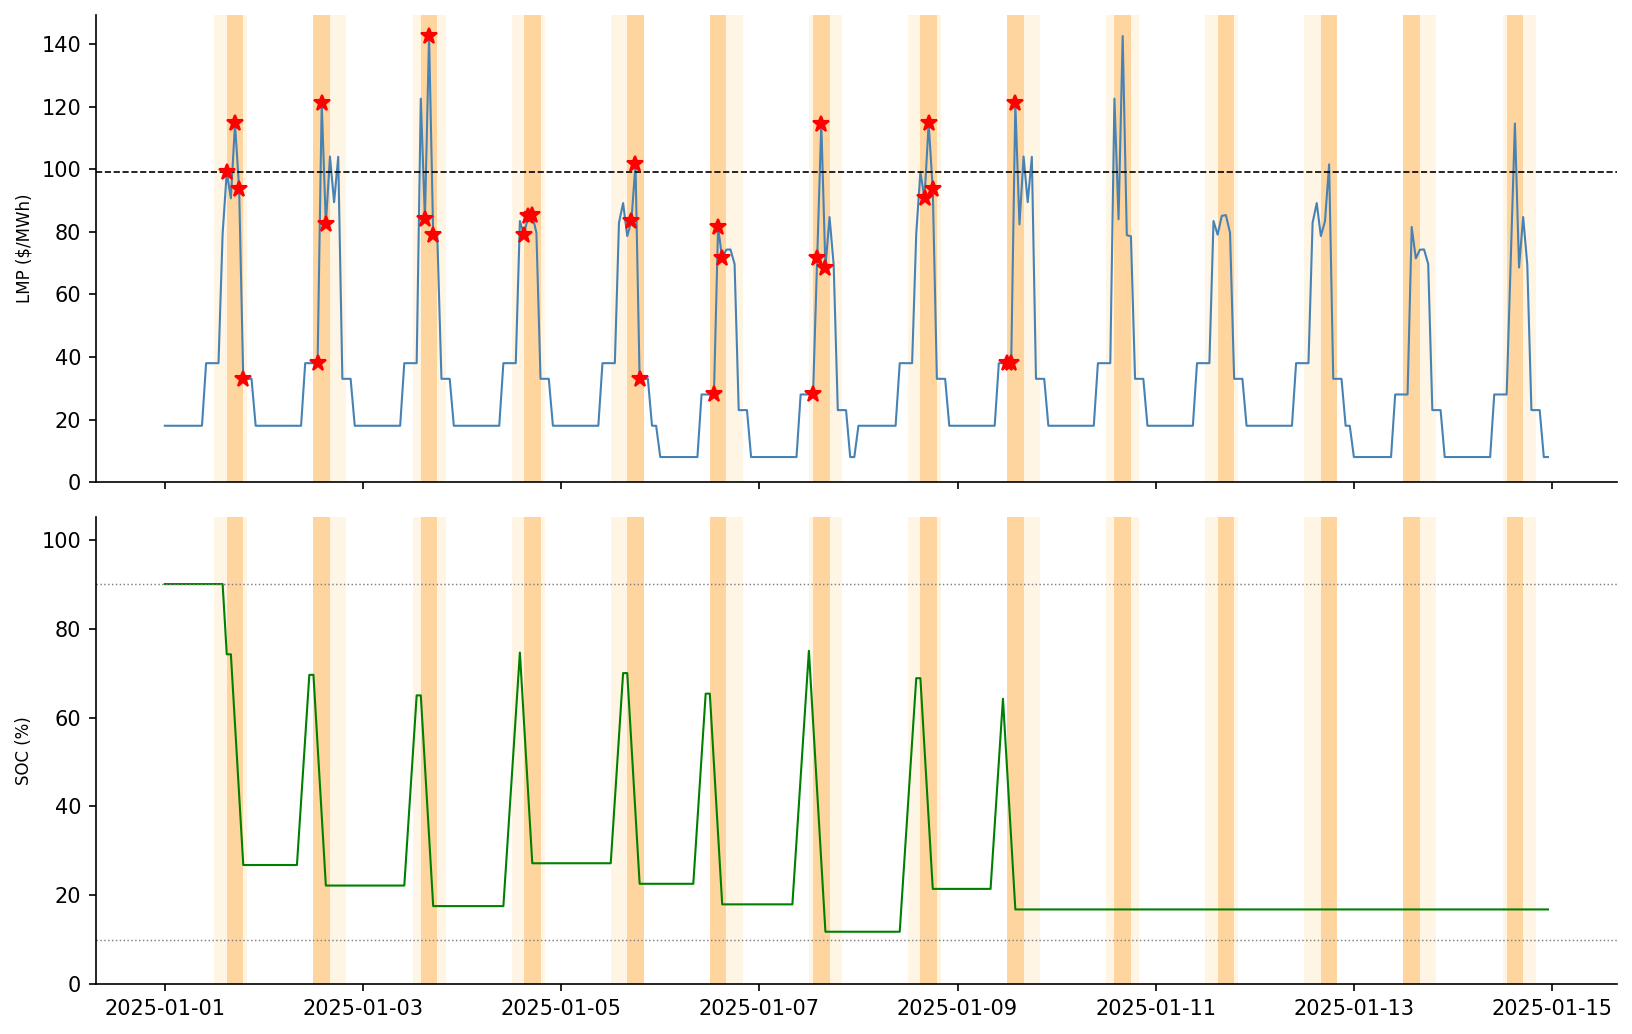
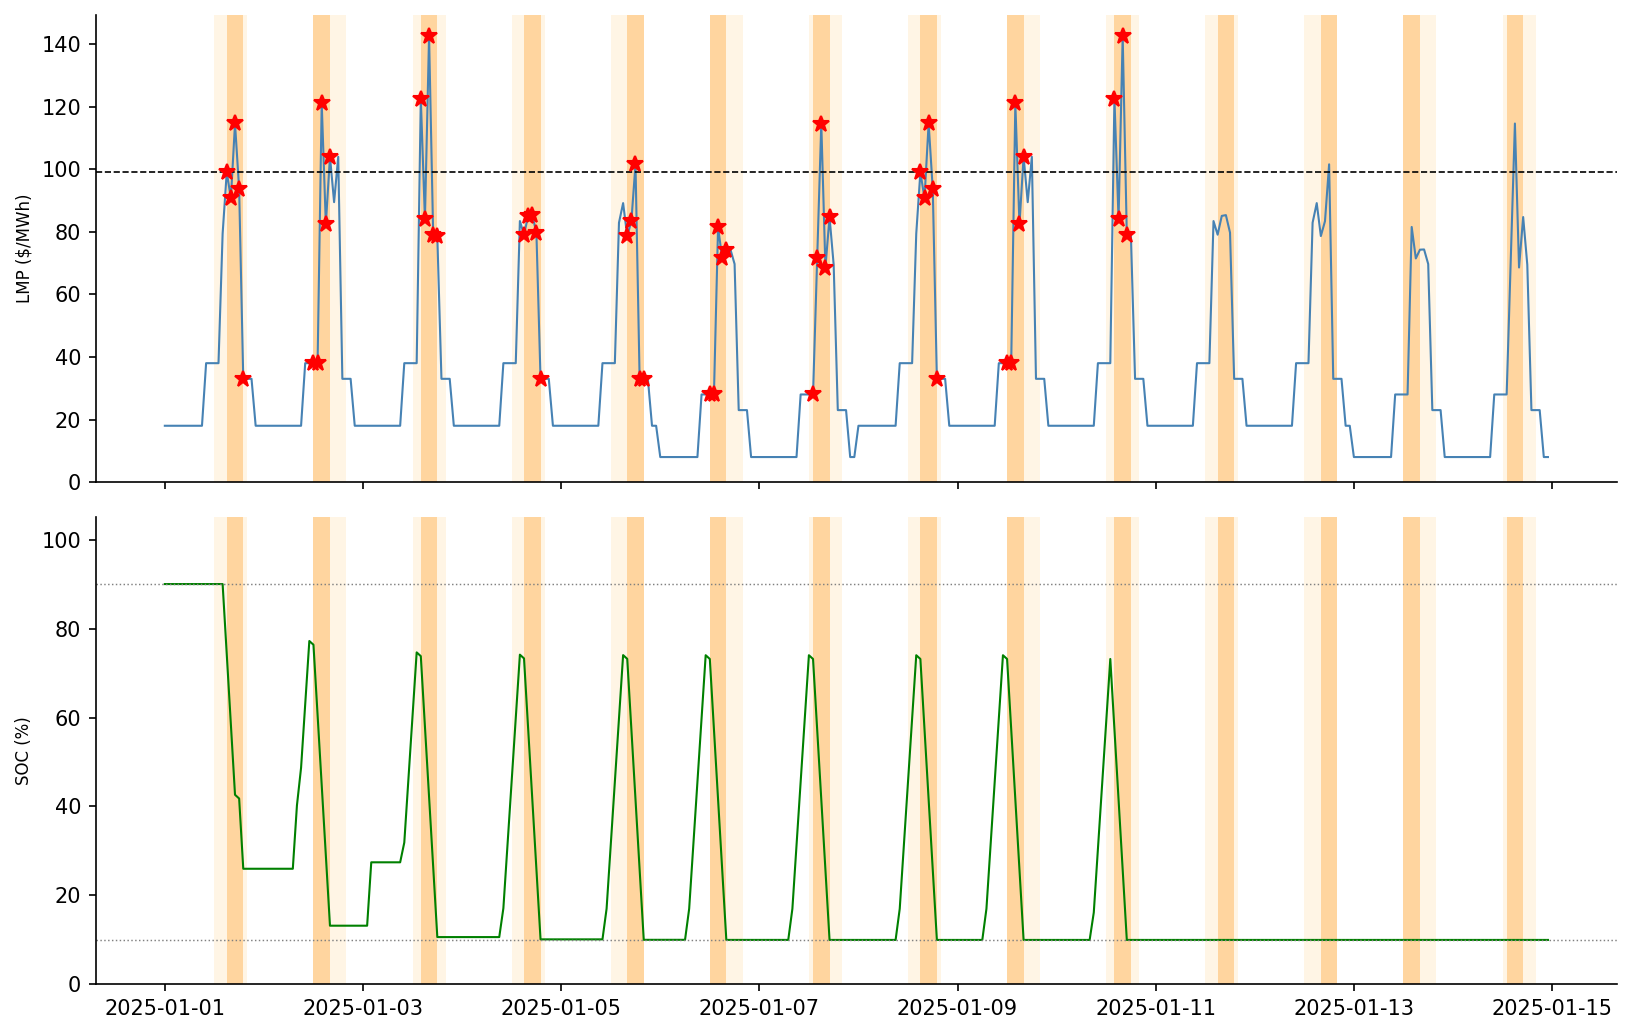
Solve for optimal power rather than assuming P_max

diff --git a/h2integrate/control/control_strategies/storage/plm_optimized_storage_controller.py b/h2integrate/control/control_strategies/storage/plm_optimized_storage_controller.py
@@ -107,11 +107,10 @@ class PeakLoadManagementOptimizedStorageController(PyomoStorageControllerBaseCla
     """Demand-response storage controller using a rolling-horizon MILP.
 
     Each call to the dispatch solver iterates over the full simulation in
-    windows of length ``n_control_window_hours``. For each window it receives
-    the monthly LMP forecast, solves the MILP to maximize incentive
-    revenue, then passes the resulting dispatch commands to the
-    performance model. The terminal SOC of each window is carried forward
-    as the initial SOC of the next window.
+    windows of length ``n_control_window_hours``. For each window it builds
+    and solves a MILP that maximises incentive revenue, then passes the
+    resulting dispatch commands to the performance model. The terminal SOC
+    of each window is carried forward as the initial SOC of the next window.
     """
 
     dr_model: Any
@@ -300,7 +299,7 @@ class PeakLoadManagementOptimizedStorageController(PyomoStorageControllerBaseCla
 
                 # Run the performance model for this window.
                 storage_out_window, soc_window = performance_model(
-                    self._get_storage_dispatch_commands(P_max),
+                    self._get_storage_dispatch_commands(),
                     **performance_model_kwargs,
                     sim_start_index=window_start,
                 )
@@ -361,7 +360,7 @@ class PeakLoadManagementOptimizedStorageController(PyomoStorageControllerBaseCla
         times = pd.DatetimeIndex(self.time_index).time
         if end < start:
             raise ValueError("peak_window end time must be after start time.")
-        return np.array([start <= t <= end for t in times])
+        return np.array([start <= t < end for t in times])
 
     def _compute_month_ids(self) -> np.ndarray:
         """Return the calendar month index (1-12) for each timestep.
@@ -478,10 +477,25 @@ class PeakLoadManagementOptimizedStorageController(PyomoStorageControllerBaseCla
     ) -> pyomo.ConcreteModel:
         """Build the DR MILP for a single rolling window.
 
+        Decision variables
+        ------------------
+        discharge[t] : binary
+            Event indicator — 1 if a discharge event is active at timestep t.
+            Used for event counting and window feasibility constraints only.
+        charge[t] : binary
+            Event indicator — 1 if a charge event is active at timestep t.
+        p_discharge[t] : continuous in [0, P_max]
+            Actual discharge power (kW). Linked to the binary via the
+            McCormick upper-bound constraint ``p_discharge[t] <= P_max * discharge[t]``.
+        p_charge[t] : continuous in [0, P_max]
+            Actual charge power (kW). Linked via ``p_charge[t] <= P_max * charge[t]``.
+        soc[t] : continuous in [soc_min, soc_max]
+            State of charge (fraction).
+
         Args:
-            window_start (int): Timestep index of the first hour
+            window_start (int): Timestep index of the first timestep
                 in this window.
-            window_len (int): Number of timesteps in this window
+            window_len (int): Number of timesteps in this window.
             init_soc (float): State-of-charge fraction at the start of
                 this window.
             remaining_budget (dict): Mapping of ``month_id (int)`` to
@@ -525,12 +539,25 @@ class PeakLoadManagementOptimizedStorageController(PyomoStorageControllerBaseCla
         m.T = pyomo.Set(initialize=range(window_len), doc="Timesteps in window")
         m.M = pyomo.Set(initialize=months_in_window, doc="Months in window")
 
-        # Things to solve for
+        # Binary event indicators — used for event counting and window constraints.
         m.discharge = pyomo.Var(
-            m.T, domain=pyomo.Binary, doc="Discharge binary: 1 = discharging at timestep t"
+            m.T, domain=pyomo.Binary, doc="1 if a discharge event is active at timestep t"
         )
         m.charge = pyomo.Var(
-            m.T, domain=pyomo.Binary, doc="Charge binary: 1 = charging at timestep t"
+            m.T, domain=pyomo.Binary, doc="1 if a charge event is active at timestep t"
+        )
+        # Actual kW dispatched each timestep.
+        m.p_discharge = pyomo.Var(
+            m.T,
+            domain=pyomo.NonNegativeReals,
+            bounds=(0, P_max),
+            doc="Discharge power (kW) at timestep t",
+        )
+        m.p_charge = pyomo.Var(
+            m.T,
+            domain=pyomo.NonNegativeReals,
+            bounds=(0, P_max),
+            doc="Charge power (kW) at timestep t",
         )
         m.soc = pyomo.Var(
             m.T,
@@ -539,11 +566,10 @@ class PeakLoadManagementOptimizedStorageController(PyomoStorageControllerBaseCla
             doc="State of charge SoC_t",
         )
 
-        # Incentive revenue is earned for every kWh discharged during the dispatch window,
-        # so we need the energy at every timestep to be in Kwh
+        # Incentive revenue is earned for every kWh discharged.
         dt_hours = self.dt_seconds / 3600.0
         m.objective = pyomo.Objective(
-            expr=-incentive * P_max * dt_hours * sum(m.discharge[t] for t in m.T),
+            expr=-incentive * dt_hours * sum(m.p_discharge[t] for t in m.T),
             sense=pyomo.minimize,
         )
 
@@ -562,7 +588,7 @@ class PeakLoadManagementOptimizedStorageController(PyomoStorageControllerBaseCla
             rule=lambda mdl, t: mdl.discharge[t] <= int(eligible_t_w[t]),
         )
 
-        # There is limit on the number of events, not discharge timesteps.
+        # There is a limit on the number of events, not discharge timesteps.
         # However, we know the number of timesteps in the event from steps_per_event,
         # so we can indirectly limit the number of discharge timesteps in each month
         # by multiplying the event cap by steps_per_event.
@@ -577,6 +603,16 @@ class PeakLoadManagementOptimizedStorageController(PyomoStorageControllerBaseCla
 
         m.max_events = pyomo.Constraint(m.M, rule=max_events_rule)
 
+        # Power is zero when the binary is 0, and at most P_max when 1.
+        m.discharge_power_link = pyomo.Constraint(
+            m.T,
+            rule=lambda mdl, t: mdl.p_discharge[t] <= P_max * mdl.discharge[t],
+        )
+        m.charge_power_link = pyomo.Constraint(
+            m.T,
+            rule=lambda mdl, t: mdl.p_charge[t] <= P_max * mdl.charge[t],
+        )
+
         m.soc_init = pyomo.Constraint(expr=m.soc[0] == init_soc)
 
         # Dynamics of the battery SOC evolution.
@@ -585,8 +621,8 @@ class PeakLoadManagementOptimizedStorageController(PyomoStorageControllerBaseCla
                 return pyomo.Constraint.Skip
             return mdl.soc[t] == (
                 mdl.soc[t - 1]
-                + eta_c * mdl.charge[t] * P_max * dt_hours / E_max
-                - mdl.discharge[t] * P_max * dt_hours / (eta_d * E_max)
+                + eta_c * mdl.p_charge[t] * dt_hours / E_max
+                - mdl.p_discharge[t] * dt_hours / (eta_d * E_max)
             )
 
         m.soc_evolution = pyomo.Constraint(m.T, rule=soc_evolution_rule)
@@ -597,7 +633,7 @@ class PeakLoadManagementOptimizedStorageController(PyomoStorageControllerBaseCla
             rule=lambda mdl, t: mdl.discharge[t] + mdl.charge[t] <= 1,
         )
 
-        # Can't charge in the dispatch window
+        # Can't charge in the dispatch window.
         m.no_charge_in_window = pyomo.Constraint(
             m.T,
             rule=lambda mdl, t: (
@@ -670,17 +706,14 @@ class PeakLoadManagementOptimizedStorageController(PyomoStorageControllerBaseCla
             results = solver.solve(pyomo_model, options=solver_options.constructed, tee=False)
         return results
 
-    def _get_storage_dispatch_commands(self, P_max: float) -> list:
+    def _get_storage_dispatch_commands(self) -> list:
         """Net dispatch commands for the solved window.
 
-        Args:
-            P_max (float): Maximum charge/discharge rate (kW).
-
         Returns:
-            list[float]: ``(u_t - v_t) * P_max`` for each timestep in
-            the solved window. Positive = discharge, negative = charge.
+            list[float]: ``p_discharge_t - p_charge_t`` (kW) for each timestep
+            in the solved window. Positive = discharge, negative = charge.
         """
         return [
-            (pyomo.value(self.dr_model.discharge[t]) - pyomo.value(self.dr_model.charge[t])) * P_max
+            pyomo.value(self.dr_model.p_discharge[t]) - pyomo.value(self.dr_model.p_charge[t])  # type: ignore[index]
             for t in self.dr_model.T
         ]

diff --git a/h2integrate/control/control_strategies/storage/test/test_plm_optimized_storage_controller.py b/h2integrate/control/control_strategies/storage/test/test_plm_optimized_storage_controller.py
@@ -101,14 +101,13 @@ def test_compute_peak_window_mask():
     controller.config = SimpleNamespace(peak_window={"start": "00:00:00", "end": "02:00:00"})
     controller.time_index = pd.date_range("2024-01-01", periods=24, freq="h")
     mask = controller._compute_peak_window_mask()
-    expected = np.array([i <= 2 for i in range(24)])
+    expected = np.array([i < 2 for i in range(24)])
     assert isinstance(mask, np.ndarray)
     assert np.array_equal(mask, expected)
 
 
 @pytest.mark.unit
 def test_compute_month_ids():
-    # Jan 2024: 744h, Feb 2024 (leap year): 696h, Mar 2024: 744h
     controller = _make_controller()
     controller.time_index = pd.date_range("2024-01-01", periods=744 + 696 + 744, freq="h")
     month_ids = controller._compute_month_ids()
@@ -242,13 +241,18 @@ def test_optimizer_dispatch_respects_soc_constraints(base_config):
 
     PeakLoadManagementOptimizedStorageController.glpk_solve_call(model)
 
-    soc = base_config.init_soc_fraction * base_config.max_capacity
+    E_max = base_config.max_capacity * (base_config.max_soc_fraction - base_config.min_soc_fraction)
+    eta_c = base_config.charge_efficiency
+    eta_d = base_config.discharge_efficiency
+    dt_hours = 3600 / 3600.0
+    soc = base_config.init_soc_fraction
     for t in range(24):
-        charge = pyomo.value(model.charge[t])  # type: ignore[index]
-        discharge = pyomo.value(model.discharge[t])  # type: ignore[index]
-        soc += charge - discharge
-        assert soc >= base_config.min_soc_fraction * base_config.max_capacity
-        assert soc <= base_config.max_soc_fraction * base_config.max_capacity
+        p_charge = pyomo.value(model.p_charge[t])  # type: ignore[index]
+        p_discharge = pyomo.value(model.p_discharge[t])  # type: ignore[index]
+        if t > 0:
+            soc += eta_c * p_charge * dt_hours / E_max - p_discharge * dt_hours / (eta_d * E_max)
+        assert soc >= base_config.min_soc_fraction - 1e-6
+        assert soc <= base_config.max_soc_fraction + 1e-6
 
 
 @pytest.mark.unit
@@ -315,3 +319,29 @@ def test_optimizer_dispatch_respects_charge_discharge_exclusivity(base_config):
         charge = pyomo.value(model.charge[t])  # type: ignore[index]
         discharge = pyomo.value(model.discharge[t])  # type: ignore[index]
         assert not (charge > 0.5 and discharge > 0.5)
+
+
[email redacted]
+def test_mccormick_power_zero_when_binary_zero(base_config):
+    """McCormick constraint: p_discharge[t] must be 0 whenever discharge[t] == 0."""
+    controller = _make_controller_with_config(base_config)
+    model = controller._build_dr_model(
+        window_start=0,
+        window_len=24,
+        init_soc=base_config.init_soc_fraction,
+        remaining_budget={1: base_config.n_max_events},
+        P_max=base_config.max_charge_rate,
+        storage_capacity=base_config.max_capacity,
+    )
+
+    PeakLoadManagementOptimizedStorageController.glpk_solve_call(model)
+
+    for t in range(24):
+        u = pyomo.value(model.discharge[t])  # type: ignore[index]
+        p_d = pyomo.value(model.p_discharge[t])  # type: ignore[index]
+        v = pyomo.value(model.charge[t])  # type: ignore[index]
+        p_c = pyomo.value(model.p_charge[t])  # type: ignore[index]
+        if u < 0.5:
+            assert p_d < 1e-6, f"p_discharge[{t}]={p_d} but discharge[{t}]={u}"
+        if v < 0.5:
+            assert p_c < 1e-6, f"p_charge[{t}]={p_c} but charge[{t}]={v}"

diff --git a/examples/test/test_all_examples.py b/examples/test/test_all_examples.py
@@ -2921,13 +2921,13 @@ def test_plm_optimized_dispatch_example(subtests, temp_copy_of_example):
     with subtests.test("Check number of discharge events"):
         # With the given demand profile and battery size, there should be 2 discharge events
         num_discharge_events = np.sum(battery_power > 1e-3)  # Count timesteps with discharge
-        assert num_discharge_events == 368
+        assert num_discharge_events == 588
 
     with subtests.test("Check total energy discharged"):
         total_energy_discharged = battery_power.sum() * (1 / 60)  # kWh, 1 min timestep
-        assert pytest.approx(total_energy_discharged, rel=1e-2) == 1840.0
+        assert pytest.approx(total_energy_discharged, rel=1e-2) == 2428.0
 
     with subtests.test("Check total energy charged"):
         battery_charge = model.prob.get_val("battery.storage_electricity_charge", units="kW")
         total_energy_charged = battery_charge.sum() * (1 / 60)  # kWh, 1 min timestep
-        assert pytest.approx(total_energy_charged, rel=1e-3) == -2015.0
+        assert pytest.approx(total_energy_charged, rel=1e-3) == -2663.0

diff --git a/examples/34_plm_optimized_dispatch/run_plm_optimized_dispatch.py b/examples/34_plm_optimized_dispatch/run_plm_optimized_dispatch.py
@@ -121,4 +121,6 @@ ax.set_ylim([0, 105])
 
 
 plt.tight_layout()
-plt.savefig("plm_optimized_dispatch.png", dpi=150, bbox_inches="tight")
+plt.savefig(
+    "examples/34_plm_optimized_dispatch/plm_optimized_dispatch.png", dpi=150, bbox_inches="tight"
+)

diff --git a/docs/control/pyomo_controllers.md b/docs/control/pyomo_controllers.md
@@ -73,13 +73,13 @@ The controller works at any simulation timestep resolution (`dt`). All time-base
 - $\mathcal{W}$ := `peak_window`: set of timesteps eligible for dispatch (e.g., 12:00--20:00 each day)
 - $\lambda_*$ := signal threshold = `signal_threshold_percentile`-th percentile of $\lambda_t$ over $\mathcal{W}$
 - $\mathcal{E}$ := eligible peak timesteps: $\{t \in \mathcal{W} : \lambda_t \geq \lambda_*\}$, respecting `min_peak_separation`
-- $\mathcal{D}$ := dispatch window: union of $\pm\,\tfrac{\text{event\_duration}}{2}$ neighbourhoods around each peak in $\mathcal{E}$ (equals $\mathcal{E}$ when `event_duration` is `null`)
+- $\mathcal{D}$ := dispatch window:  $\pm\,\tfrac{\text{event\_duration}}{2}$  around each peak in $\mathcal{E}$
 - $\gamma$ := `performance_incentive` (\$/kWh): incentive revenue per kWh discharged
 - $\bar{P}$ := `max_charge_rate` (kW): maximum charge and discharge rate
 - $E_{\max} :=$ `max_capacity` $\times$ (`max_soc_fraction` $-$ `min_soc_fraction`): usable energy capacity (kWh)
 - $\eta_c$ := `charge_efficiency`, $\quad \eta_d$ := `discharge_efficiency`
 - $\overline{\text{SoC}}$ := `max_soc_fraction`, $\quad \underline{\text{SoC}}$ := `min_soc_fraction`
-- `n_control_window` := rolling horizon length in hours; converted to $T = \lceil \text{n\_control\_window} / \Delta t \rceil$ timesteps
+- `n_control_window_hours` := rolling horizon length in hours; converted to $T = \lceil \text{n\_control\_window\_hours} / \Delta t \rceil$ timesteps
 - $\mathcal{T} := \{0, 1, \ldots, T-1\}$: timesteps in the current rolling window
 - $\mathcal{M}_m$ := set of timesteps in month $m$, for $m = 1, \ldots, 12$
 - $N_{\max}$ := `n_max_events`: maximum number of discharge events per calendar month
@@ -96,8 +96,12 @@ Before the MILP is solved, the dispatch window $\mathcal{D}$ is built in two ste
 
 ## Decision Variables
 
-- $u_t \in \{0, 1\}$ := discharge binary: 1 if the battery discharges at timestep $t$, 0 otherwise
-- $v_t \in \{0, 1\}$ := charge binary: 1 if the battery charges at timestep $t$, 0 otherwise
+
+- $u_t \in \{0, 1\}$ := discharge binary: 1 if a discharge event is active at timestep $t$; used for event counting and window feasibility constraints only
+- $v_t \in \{0, 1\}$ := charge binary: 1 if a charge event is active at timestep $t$
+- $p_{d,t} \in [0,\, \bar{P}]$ := discharge power (kW) actually dispatched at timestep $t$
+- $p_{c,t} \in [0,\, \bar{P}]$ := charge power (kW) actually consumed at timestep $t$
+- $\text{SoC}_t \in [\underline{\text{SoC}},\, \overline{\text{SoC}}]$ := state of charge (fraction) at timestep $t$
 
 ## Optimization Problem
 
@@ -108,7 +112,7 @@ This optimization is executed for each rolling window. At each window boundary t
 Maximize total incentive revenue over the window:
 
 $$
-\max_{u_t,\, v_t} \quad \gamma \cdot \bar{P} \cdot \Delta t \sum_{t \in \mathcal{T}} u_t
+\max_{u_t,\, v_t,\, p_{d,t},\, p_{c,t}} \quad \gamma \cdot \Delta t \sum_{t \in \mathcal{T}} p_{d,t}
 $$
 
 The factor $\Delta t$ converts power (kW) to energy (kWh), so the objective is correctly scaled at any timestep resolution.
@@ -129,10 +133,20 @@ $$
 
 After each window is solved, events are counted via rising-edge detection (a new event begins whenever $u_t = 1$ and $u_{t-1} = 0$) and $B_m$ is decremented accordingly for subsequent windows.
 
-- SoC evolution with charge and discharge:
+- Power is zero when the binary is 0, and at most $\bar{P}$ when it is 1:
 
 $$
-\text{SoC}_{t+1} = \text{SoC}_t + \frac{\eta_c \cdot v_t \cdot \bar{P} \cdot \Delta t}{E_{\max}} - \frac{u_t \cdot \bar{P} \cdot \Delta t}{\eta_d \cdot E_{\max}} \qquad \forall\, t \in \mathcal{T}
+p_{d,t} \leq \bar{P} \cdot u_t \qquad \forall\, t \in \mathcal{T}
+$$
+
+$$
+p_{c,t} \leq \bar{P} \cdot v_t \qquad \forall\, t \in \mathcal{T}
+$$
+
+- SoC evolution with continuous charge and discharge power:
+
+$$
+\text{SoC}_{t} = \text{SoC}_{t-1} + \frac{\eta_c \cdot p_{c,t} \cdot \Delta t}{E_{\max}} - \frac{p_{d,t} \cdot \Delta t}{\eta_d \cdot E_{\max}} \qquad \forall\, t \in \mathcal{T},\, t > 0
 $$
 
 - SoC bounds:
@@ -153,13 +167,13 @@ $$
 v_t = 0 \qquad \forall\, t \in \mathcal{D}
 $$
 
-- Binary variables:
+- Variable domains:
 
 $$
-u_t \in \{0, 1\}, \quad v_t \in \{0, 1\}, \quad \text{SoC}_t \in [\underline{\text{SoC}},\, \overline{\text{SoC}}] \qquad \forall\, t
+u_t \in \{0, 1\}, \quad v_t \in \{0, 1\}, \quad p_{d,t},\, p_{c,t} \in [0,\, \bar{P}], \quad \text{SoC}_t \in [\underline{\text{SoC}},\, \overline{\text{SoC}}] \qquad \forall\, t
 $$
 
 
-Example 34 performs the optimization with a real LMP signal. The look-ahead horizon (`n_control_window`) controls how many hours are optimized at once. Larger values improve solution quality but increase solve time. See the figure below for results.
+Example 34 performs the optimization with a real LMP signal. The look-ahead horizon (`n_control_window_hours`) controls how many hours are optimized at once. Larger values improve solution quality but increase solve time. See the figure below for results.
 
 ![](./figures/plm_optimized_dispatch.png)